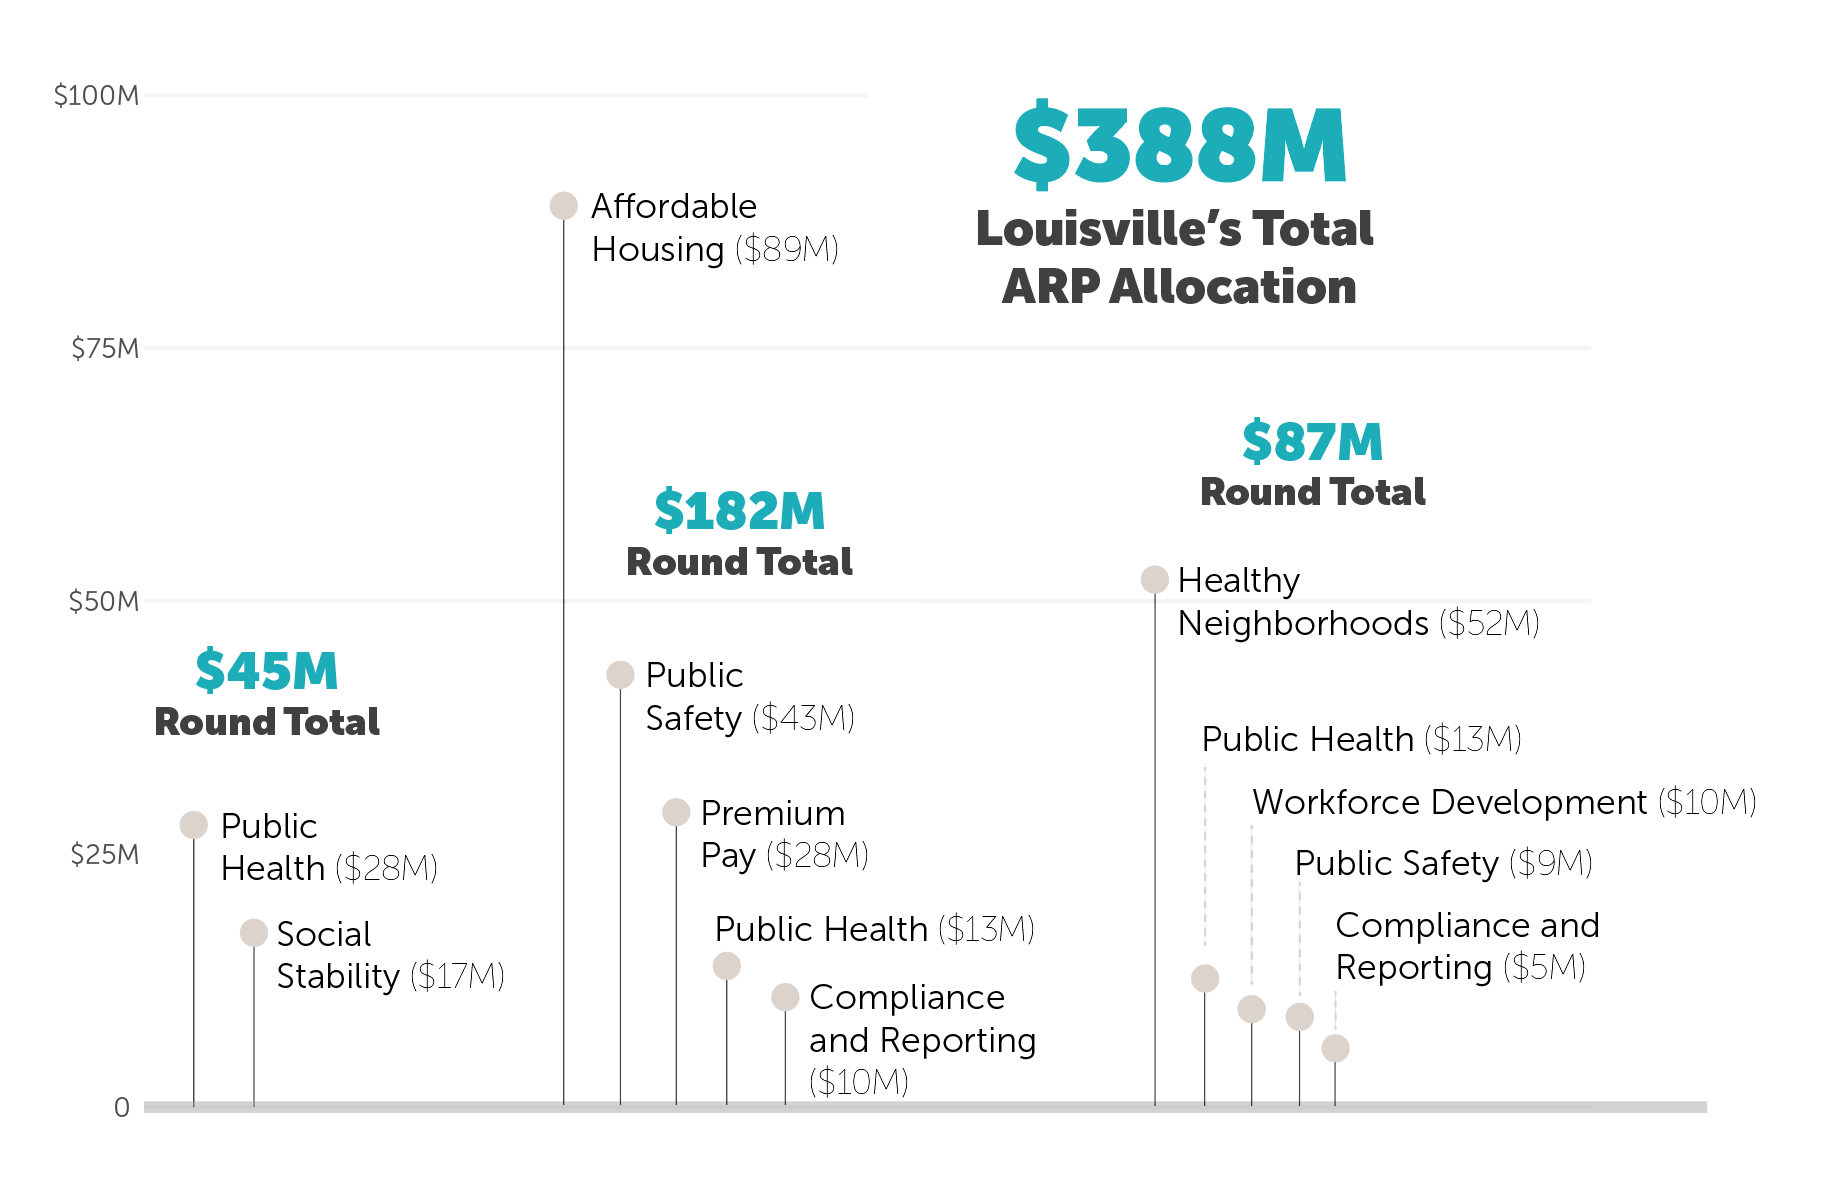
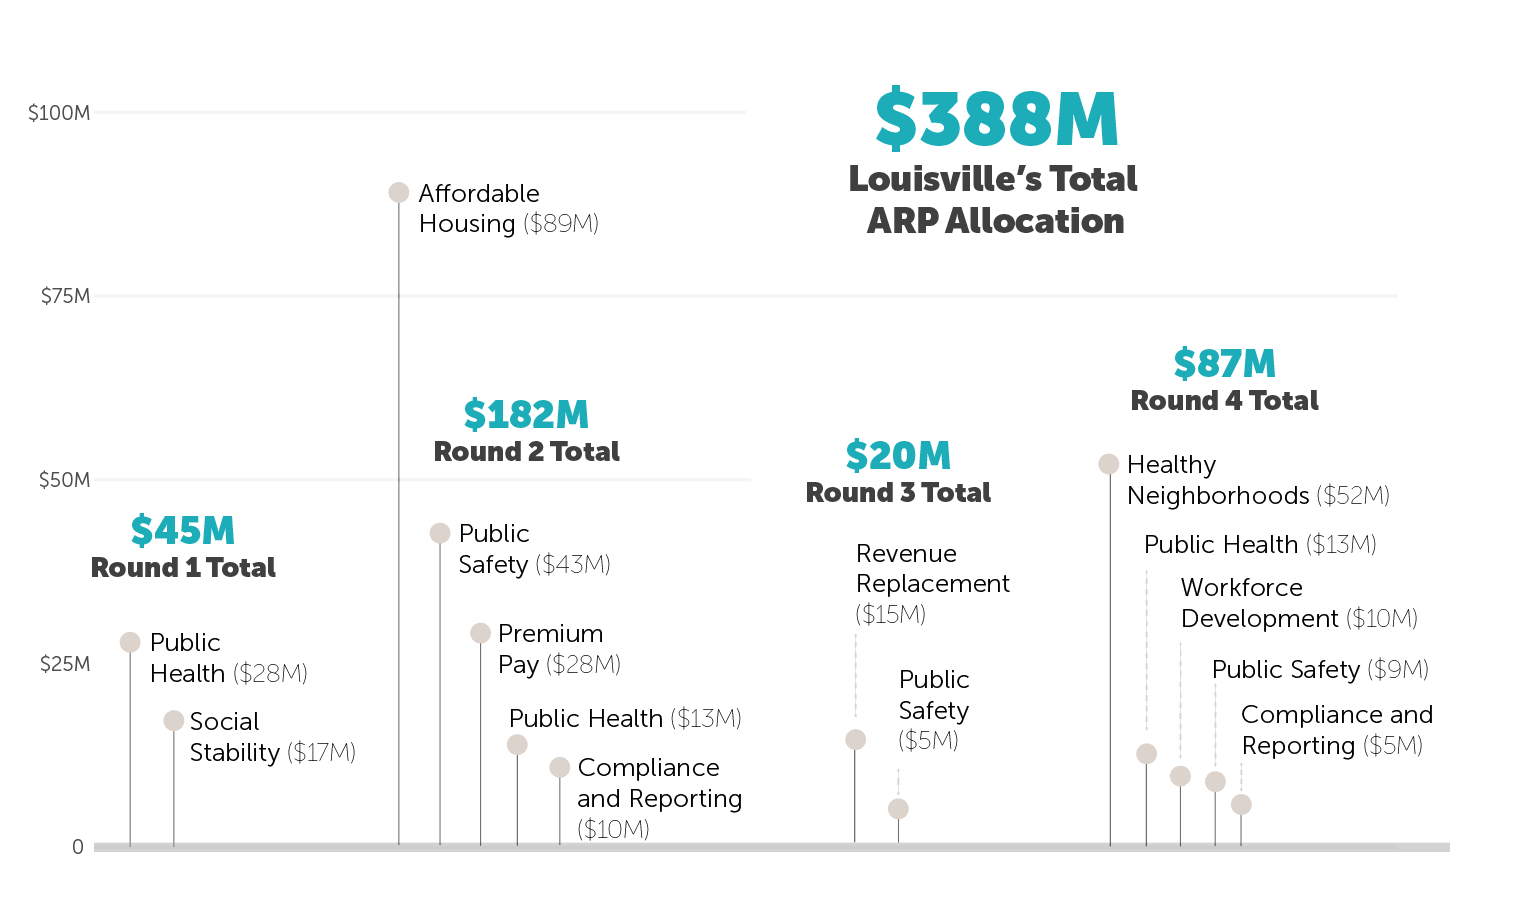
updated total allocation viz with third round of funding

diff --git a/docs/index.html b/docs/index.html
@@ -261,7 +261,7 @@ div.tocify {
 
 
 <p>Louisville received $388 million from the American Rescue Plan. The first round focused primarily on public health and immediate needs in the wake of the COVID-19 pandemic. Later rounds focused on housing affordability, public safety and improving Louisville’s neighborhoods.</p>
-<p>By far, the largest chunk of funding so far has gone to affordable housing ($89 million). The healthy neighborhoods portion of funding inclues money for Louisville’s libraries and parks, among other areas.</p>
+<p>By far, the largest chunk of funding so far has gone to affordable housing ($89 million). The healthy neighborhoods portion of the third round of funding includes money for Louisville’s libraries and parks, among other areas.</p>
 <pre class="r"><code>library(ggplot2)
 
 first_round &lt;- read.csv(&#39;intermediate_data/first_round.csv&#39;)
@@ -343,8 +343,8 @@ childcare_plot &lt;- collapsibleTree(childcare_tree,
                      zoomable=FALSE)
 
 childcare_plot</code></pre>
-<div id="htmlwidget-2bb09823e84f668ec16e" style="width:672px;height:250px;" class="collapsibleTree html-widget"></div>
-<script type="application/json" data-for="htmlwidget-2bb09823e84f668ec16e">{"x":{"data":{"name":" ","children":[{"name":"Child Care","children":[{"name":"Additional Data","children":[{"name":"New Zoning Regulations"},{"name":"Proximity to Jobs"},{"name":"Other Data?"}]},{"name":"Inclusive Economic Indicators","children":[{"name":"Gender Inclusion"}]}]}]},"options":{"hierarchy":["category","topic","description"],"input":null,"attribute":"leafCount","linkLength":null,"fontSize":10,"tooltip":false,"collapsed":true,"zoomable":false,"margin":{"top":20,"bottom":20,"left":30,"right":135},"fill":"#00acbb"}},"evals":[],"jsHooks":[]}</script>
+<div id="htmlwidget-44c0db3949a3f7fed755" style="width:672px;height:250px;" class="collapsibleTree html-widget"></div>
+<script type="application/json" data-for="htmlwidget-44c0db3949a3f7fed755">{"x":{"data":{"name":" ","children":[{"name":"Child Care","children":[{"name":"Additional Data","children":[{"name":"New Zoning Regulations"},{"name":"Proximity to Jobs"},{"name":"Other Data?"}]},{"name":"Inclusive Economic Indicators","children":[{"name":"Gender Inclusion"}]}]}]},"options":{"hierarchy":["category","topic","description"],"input":null,"attribute":"leafCount","linkLength":null,"fontSize":10,"tooltip":false,"collapsed":true,"zoomable":false,"margin":{"top":20,"bottom":20,"left":30,"right":135},"fill":"#00acbb"}},"evals":[],"jsHooks":[]}</script>
 </div>
 <div id="additional-data-context" class="section level3 tabset">
 <h3 class="tabset">Additional Data Context</h3>
@@ -382,8 +382,8 @@ youth_development_plot &lt;- collapsibleTree(youth_development_tree,
                      zoomable=FALSE)
 
 youth_development_plot</code></pre>
-<div id="htmlwidget-8cb795cccd7506b2880f" style="width:672px;height:250px;" class="collapsibleTree html-widget"></div>
-<script type="application/json" data-for="htmlwidget-8cb795cccd7506b2880f">{"x":{"data":{"name":" ","children":[{"name":"Youth Development","children":[{"name":"Additional Data","children":[{"name":"Voting Turnout vs. Registration"},{"name":"Nonprofits Serving Young People"},{"name":"Youth Residential Stability"},{"name":"Transition to Adult Life"},{"name":"Disconnected Youth"},{"name":"Suicide Rates"},{"name":"Drug Overdoses"},{"name":"Statewide Data"},{"name":"Other Data?"}]},{"name":"Inclusive Economic Indicators","children":[{"name":"Parents' Job Data"}]}]}]},"options":{"hierarchy":["category","topic","description"],"input":null,"attribute":"leafCount","linkLength":null,"fontSize":10,"tooltip":false,"collapsed":true,"zoomable":false,"margin":{"top":20,"bottom":20,"left":30,"right":180},"fill":"#00acbb"}},"evals":[],"jsHooks":[]}</script>
+<div id="htmlwidget-af378d830eac5021cdbf" style="width:672px;height:250px;" class="collapsibleTree html-widget"></div>
+<script type="application/json" data-for="htmlwidget-af378d830eac5021cdbf">{"x":{"data":{"name":" ","children":[{"name":"Youth Development","children":[{"name":"Additional Data","children":[{"name":"Voting Turnout vs. Registration"},{"name":"Nonprofits Serving Young People"},{"name":"Youth Residential Stability"},{"name":"Transition to Adult Life"},{"name":"Disconnected Youth"},{"name":"Suicide Rates"},{"name":"Drug Overdoses"},{"name":"Statewide Data"},{"name":"Other Data?"}]},{"name":"Inclusive Economic Indicators","children":[{"name":"Parents' Job Data"}]}]}]},"options":{"hierarchy":["category","topic","description"],"input":null,"attribute":"leafCount","linkLength":null,"fontSize":10,"tooltip":false,"collapsed":true,"zoomable":false,"margin":{"top":20,"bottom":20,"left":30,"right":180},"fill":"#00acbb"}},"evals":[],"jsHooks":[]}</script>
 </div>
 <div id="additional-data-context-1" class="section level3 tabset">
 <h3 class="tabset">Additional Data Context</h3>
@@ -461,8 +461,8 @@ library_plot &lt;- collapsibleTree(libraries_tree,
                      zoomable=FALSE)
 
 library_plot</code></pre>
-<div id="htmlwidget-49b14aba01996b1f86b1" style="width:672px;height:250px;" class="collapsibleTree html-widget"></div>
-<script type="application/json" data-for="htmlwidget-49b14aba01996b1f86b1">{"x":{"data":{"name":" ","children":[{"name":"Libraries","children":[{"name":"Additional Data","children":[{"name":"Map of Libraries and Internet Access (Path Forward)"},{"name":"Number of Public Internet Sessions per Year"},{"name":"Wireless Sessions per Year"},{"name":"People Receiving Training on Electronics"},{"name":"Children's Programming Attendance"},{"name":"Young Adult Programming Attendance"},{"name":"Adult Programming Attendance"},{"name":"Other Data?"}]},{"name":"Inclusive Economic Indicators","children":[{"name":"Jobs"},{"name":"Productivity"}]}]}]},"options":{"hierarchy":["category","topic","description"],"input":null,"attribute":"leafCount","linkLength":null,"fontSize":10,"tooltip":false,"collapsed":true,"zoomable":false,"margin":{"top":20,"bottom":20,"left":30,"right":280},"fill":"#00acbb"}},"evals":[],"jsHooks":[]}</script>
+<div id="htmlwidget-9eb04ccc2fd322af9793" style="width:672px;height:250px;" class="collapsibleTree html-widget"></div>
+<script type="application/json" data-for="htmlwidget-9eb04ccc2fd322af9793">{"x":{"data":{"name":" ","children":[{"name":"Libraries","children":[{"name":"Additional Data","children":[{"name":"Map of Libraries and Internet Access (Path Forward)"},{"name":"Number of Public Internet Sessions per Year"},{"name":"Wireless Sessions per Year"},{"name":"People Receiving Training on Electronics"},{"name":"Children's Programming Attendance"},{"name":"Young Adult Programming Attendance"},{"name":"Adult Programming Attendance"},{"name":"Other Data?"}]},{"name":"Inclusive Economic Indicators","children":[{"name":"Jobs"},{"name":"Productivity"}]}]}]},"options":{"hierarchy":["category","topic","description"],"input":null,"attribute":"leafCount","linkLength":null,"fontSize":10,"tooltip":false,"collapsed":true,"zoomable":false,"margin":{"top":20,"bottom":20,"left":30,"right":280},"fill":"#00acbb"}},"evals":[],"jsHooks":[]}</script>
 </div>
 <div id="additional-data-context-2" class="section level3 tabset">
 <h3 class="tabset">Additional Data Context</h3>
@@ -501,8 +501,8 @@ housing_plot &lt;- collapsibleTree(housing_tree,
                      zoomable=FALSE)
 
 housing_plot</code></pre>
-<div id="htmlwidget-de054f4267d58d4b6699" style="width:672px;height:350px;" class="collapsibleTree html-widget"></div>
-<script type="application/json" data-for="htmlwidget-de054f4267d58d4b6699">{"x":{"data":{"name":" ","children":[{"name":"Affordable Housing","children":[{"name":"Additional Data","children":[{"name":"Rent vs. Income Trends"},{"name":"Visualizing and Updating Affordable Housing Gap"},{"name":"Profile of Homeowners in Subsidized Housing: Gender"},{"name":"Profile of Homeowners in Subsidized Housing: Age"},{"name":"Profile of Homeowners in Subsidized Housing: Race"},{"name":"Profile of Homeowners in Subsidized Housing: Disability Status"},{"name":"Profile of Homeowners in Subsidized Housing: Income Source"},{"name":"Profile of Homeowners in Subsidized Housing: Family Structure"},{"name":"Average Time on Waitlist"},{"name":"Homelessness Statistics"},{"name":"Youth Homelessness"},{"name":"Housing Permits vs. New Jobs"},{"name":"Other Data?"}]},{"name":"Inclusive Economic Indicators","children":[{"name":"prosperity"},{"name":"gender inclusion"},{"name":"racial inclusion"},{"name":"geographic inclusion"}]}]}]},"options":{"hierarchy":["category","topic","description"],"input":null,"attribute":"leafCount","linkLength":null,"fontSize":10,"tooltip":false,"collapsed":true,"zoomable":false,"margin":{"top":20,"bottom":20,"left":30,"right":335},"fill":"#00acbb"}},"evals":[],"jsHooks":[]}</script>
+<div id="htmlwidget-ee511c14f47d9c4843ef" style="width:672px;height:350px;" class="collapsibleTree html-widget"></div>
+<script type="application/json" data-for="htmlwidget-ee511c14f47d9c4843ef">{"x":{"data":{"name":" ","children":[{"name":"Affordable Housing","children":[{"name":"Additional Data","children":[{"name":"Rent vs. Income Trends"},{"name":"Visualizing and Updating Affordable Housing Gap"},{"name":"Profile of Homeowners in Subsidized Housing: Gender"},{"name":"Profile of Homeowners in Subsidized Housing: Age"},{"name":"Profile of Homeowners in Subsidized Housing: Race"},{"name":"Profile of Homeowners in Subsidized Housing: Disability Status"},{"name":"Profile of Homeowners in Subsidized Housing: Income Source"},{"name":"Profile of Homeowners in Subsidized Housing: Family Structure"},{"name":"Average Time on Waitlist"},{"name":"Homelessness Statistics"},{"name":"Youth Homelessness"},{"name":"Housing Permits vs. New Jobs"},{"name":"Other Data?"}]},{"name":"Inclusive Economic Indicators","children":[{"name":"prosperity"},{"name":"gender inclusion"},{"name":"racial inclusion"},{"name":"geographic inclusion"}]}]}]},"options":{"hierarchy":["category","topic","description"],"input":null,"attribute":"leafCount","linkLength":null,"fontSize":10,"tooltip":false,"collapsed":true,"zoomable":false,"margin":{"top":20,"bottom":20,"left":30,"right":335},"fill":"#00acbb"}},"evals":[],"jsHooks":[]}</script>
 </div>
 <div id="additional-data-context-3" class="section level3 tabset">
 <h3 class="tabset">Additional Data Context</h3>
@@ -570,8 +570,8 @@ public_safety_plot &lt;- collapsibleTree(public_safety_tree,
                      zoomable=FALSE)
 
 public_safety_plot</code></pre>
-<div id="htmlwidget-df3427c1d93bae318b47" style="width:672px;height:250px;" class="collapsibleTree html-widget"></div>
-<script type="application/json" data-for="htmlwidget-df3427c1d93bae318b47">{"x":{"data":{"name":" ","children":[{"name":"Public Safety","children":[{"name":"Additional Data","children":[{"name":"Kids Entering Detention Centers"},{"name":"Breakdown of Public Safety Spending"},{"name":"Police Officer and Related Staff Salaries"},{"name":"Professional Standards Unit Investigations"},{"name":"Other Data?"}]},{"name":"Inclusive Economic Indicators","children":[{"name":"Racial Inclusion"},{"name":"Geographic Inclusion"}]}]}]},"options":{"hierarchy":["category","topic","description"],"input":null,"attribute":"leafCount","linkLength":null,"fontSize":10,"tooltip":false,"collapsed":true,"zoomable":false,"margin":{"top":20,"bottom":20,"left":30,"right":235},"fill":"#00acbb"}},"evals":[],"jsHooks":[]}</script>
+<div id="htmlwidget-53b90b2de4348ebd049e" style="width:672px;height:250px;" class="collapsibleTree html-widget"></div>
+<script type="application/json" data-for="htmlwidget-53b90b2de4348ebd049e">{"x":{"data":{"name":" ","children":[{"name":"Public Safety","children":[{"name":"Additional Data","children":[{"name":"Kids Entering Detention Centers"},{"name":"Breakdown of Public Safety Spending"},{"name":"Police Officer and Related Staff Salaries"},{"name":"Professional Standards Unit Investigations"},{"name":"Other Data?"}]},{"name":"Inclusive Economic Indicators","children":[{"name":"Racial Inclusion"},{"name":"Geographic Inclusion"}]}]}]},"options":{"hierarchy":["category","topic","description"],"input":null,"attribute":"leafCount","linkLength":null,"fontSize":10,"tooltip":false,"collapsed":true,"zoomable":false,"margin":{"top":20,"bottom":20,"left":30,"right":235},"fill":"#00acbb"}},"evals":[],"jsHooks":[]}</script>
 </div>
 <div id="additional-data-context-4" class="section level3 tabset">
 <h3 class="tabset">Additional Data Context</h3>
@@ -619,8 +619,8 @@ public_health_plot &lt;- collapsibleTree(public_health_tree,
                      zoomable=FALSE)
 
 public_health_plot</code></pre>
-<div id="htmlwidget-c3c31d0f2b679c46d4f4" style="width:672px;height:250px;" class="collapsibleTree html-widget"></div>
-<script type="application/json" data-for="htmlwidget-c3c31d0f2b679c46d4f4">{"x":{"data":{"name":" ","children":[{"name":"Public Health","children":[{"name":"Additional Data","children":[{"name":"Number of Syringe Exchange Programs"},{"name":"Number of Substance Abuse Services Facilities "},{"name":"Buprenorphine Providers"},{"name":"Distance to Nearest Syringe Services Program"},{"name":"Medication Assisted Treatment Centers"},{"name":"Other Data?"}]},{"name":"Inclusive Economic Indicators","children":[{"name":"Racial Inclusion"},{"name":"Geographic Inclusion"}]}]}]},"options":{"hierarchy":["category","topic","description"],"input":null,"attribute":"leafCount","linkLength":null,"fontSize":10,"tooltip":false,"collapsed":true,"zoomable":false,"margin":{"top":20,"bottom":20,"left":30,"right":255},"fill":"#00acbb"}},"evals":[],"jsHooks":[]}</script>
+<div id="htmlwidget-210457c26fba0da22382" style="width:672px;height:250px;" class="collapsibleTree html-widget"></div>
+<script type="application/json" data-for="htmlwidget-210457c26fba0da22382">{"x":{"data":{"name":" ","children":[{"name":"Public Health","children":[{"name":"Additional Data","children":[{"name":"Number of Syringe Exchange Programs"},{"name":"Number of Substance Abuse Services Facilities "},{"name":"Buprenorphine Providers"},{"name":"Distance to Nearest Syringe Services Program"},{"name":"Medication Assisted Treatment Centers"},{"name":"Other Data?"}]},{"name":"Inclusive Economic Indicators","children":[{"name":"Racial Inclusion"},{"name":"Geographic Inclusion"}]}]}]},"options":{"hierarchy":["category","topic","description"],"input":null,"attribute":"leafCount","linkLength":null,"fontSize":10,"tooltip":false,"collapsed":true,"zoomable":false,"margin":{"top":20,"bottom":20,"left":30,"right":255},"fill":"#00acbb"}},"evals":[],"jsHooks":[]}</script>
 </div>
 <div id="additional-data-context-5" class="section level3 tabset">
 <h3 class="tabset">Additional Data Context</h3>
